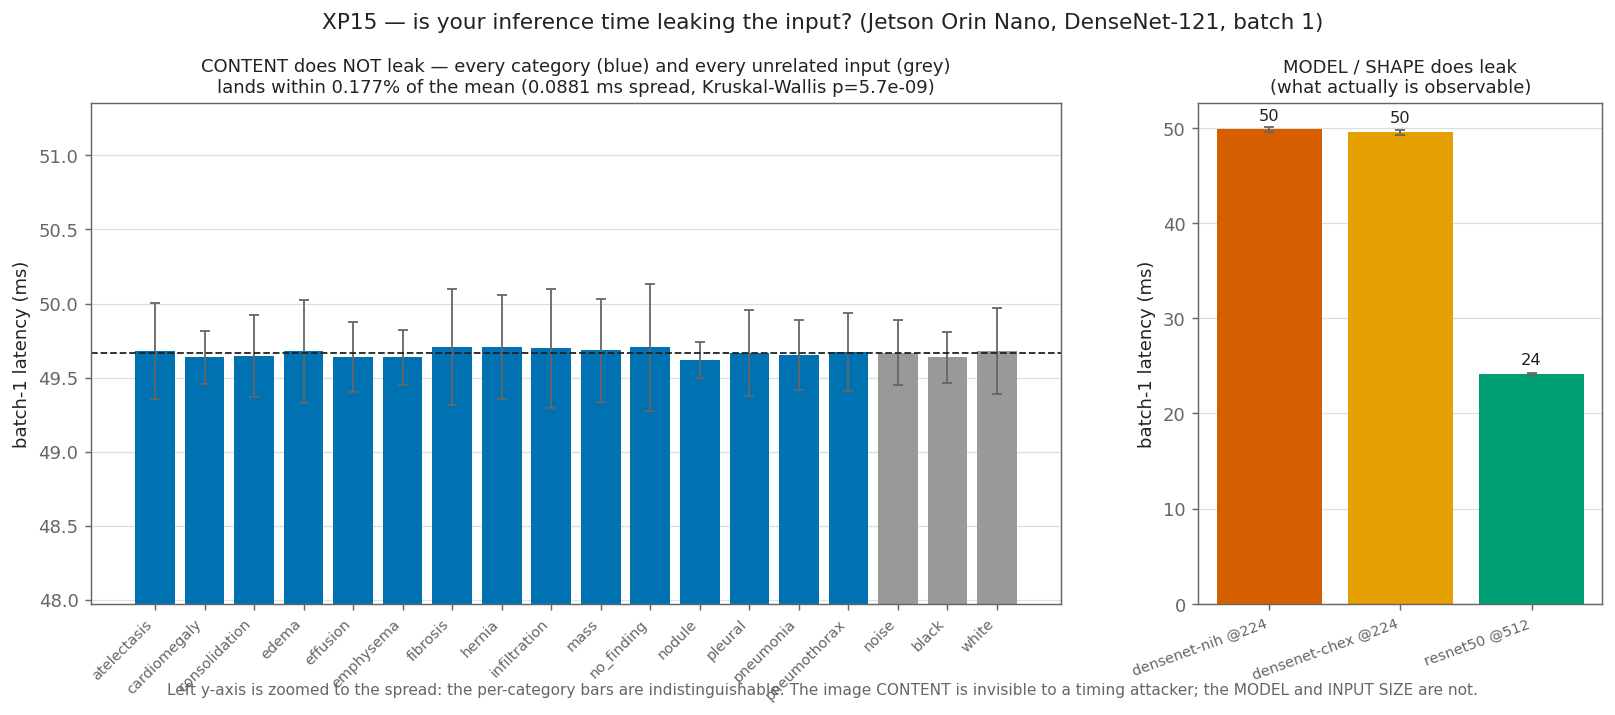
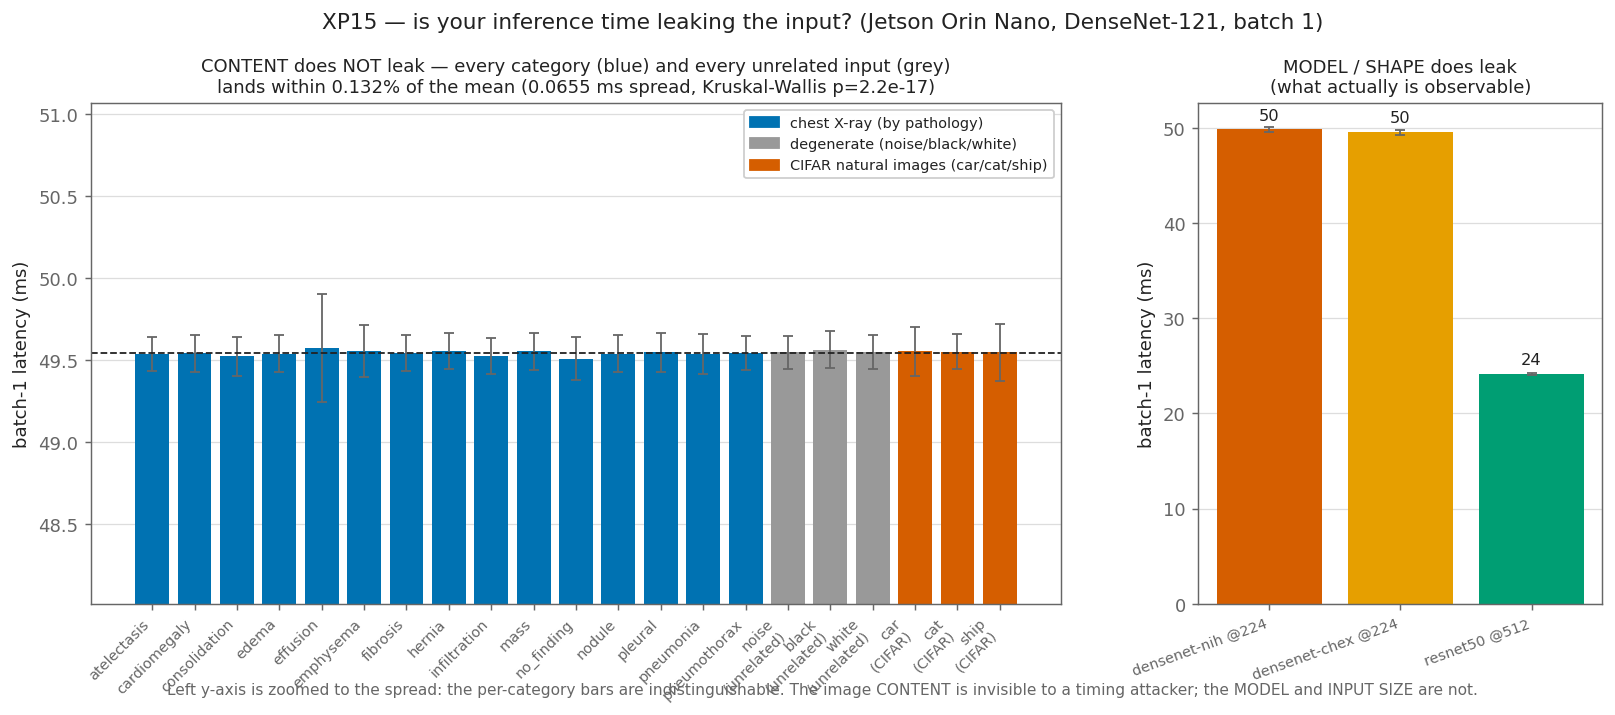
XP15: add real cross-domain images (CIFAR car/cat/ship) to the content test
Strengthen the 'content doesn't leak' finding with genuine natural photos from a
totally different domain, not just degenerate noise. Result: chest X-rays,
noise/black/white, and CIFAR cars/cats/ships all land at 49.55 ms — full spread
across all 21 groups is 0.066 ms (0.13%). A cardiomegaly X-ray and a photo of a
car differ by 11 microseconds. Figure now colours three groups (X-ray / degenerate
/ CIFAR); added --content-only for fast re-runs that reuse the model-shape control.

diff --git a/experiments/xp15_timing_sidechannel/timing_leak.py b/experiments/xp15_timing_sidechannel/timing_leak.py
@@ -116,11 +116,35 @@ def category_tensors(per_cat, size=224, seed=0):
         arr = np.stack([_preprocess(imgs[i], size) for i in idxs])   # (k,1,size,size)
         tensors[name] = torch.from_numpy(arr).to(DEVICE)
 
-    # "totally unrelated pictures": nothing like an X-ray.
+    # "totally unrelated pictures", part 1 — degenerate inputs (nothing like an X-ray).
     k = per_cat
     tensors["_noise"] = ((torch.rand(k, 1, size, size) * 2048) - 1024).to(DEVICE)
     tensors["_black"] = torch.full((k, 1, size, size), -1024.0).to(DEVICE)
     tensors["_white"] = torch.full((k, 1, size, size), 1024.0).to(DEVICE)
+
+    # part 2 — REAL natural images from a totally different domain (CIFAR-10: cars, cats,
+    # ships). Resized 32->224 with PIL (cv2 is ABI-broken on this board). If an attacker
+    # can't tell a car from a chest X-ray by timing, content really doesn't leak.
+    try:
+        from PIL import Image
+        from torchvision.datasets import CIFAR10
+        ds = CIFAR10(root=os.path.join(REPO, "results", "raw", "cifar"),
+                     train=False, download=True)
+        want = {"automobile": "~car", "cat": "~cat", "ship": "~ship"}
+        cls = ds.classes
+        buckets = {tag: [] for tag in want.values()}
+        for img, y in ds:                                # img is a PIL RGB 32x32
+            name = cls[y]
+            if name in want and len(buckets[want[name]]) < per_cat:
+                g = np.array(img.convert("L").resize((size, size), Image.BILINEAR))
+                buckets[want[name]].append(xrv_normalize(g.astype(np.float32))[None, ...])
+            if all(len(b) >= per_cat for b in buckets.values()):
+                break
+        for tag, arrs in buckets.items():
+            if arrs:
+                tensors[tag] = torch.from_numpy(np.stack(arrs).astype(np.float32)).to(DEVICE)
+    except Exception as e:                               # torchvision/CIFAR unavailable
+        print(f"   (CIFAR unrelated images skipped: {e})", flush=True)
     return tensors
 
 
@@ -141,8 +165,9 @@ def content_leak(model, tensors, repeats, seed=0):
         by_cat.setdefault(tag, []).extend(lat[i])
     per_cat = {c: summarize(v) for c, v in by_cat.items()}
 
-    # effect size + Kruskal-Wallis across the real pathology categories (exclude degenerate)
-    real = {c: by_cat[c] for c in by_cat if not c.startswith("_")}
+    # effect size + Kruskal-Wallis across the pathology categories only (exclude the
+    # degenerate "_" inputs and the CIFAR "~" natural images).
+    real = {c: by_cat[c] for c in by_cat if not (c.startswith("_") or c.startswith("~"))}
     means = [per_cat[c]["mean_ms"] for c in real]
     grand = float(np.mean([v for vs in real.values() for v in vs]))
     spread_ms = round(max(means) - min(means), 4)
@@ -231,6 +256,8 @@ def main() -> int:
     a.add_argument("--per-cat", type=int, default=80, help="images per category")
     a.add_argument("--repeats", type=int, default=8, help="timing repeats per image")
     a.add_argument("--no-energy", action="store_true")
+    a.add_argument("--content-only", action="store_true",
+                   help="re-measure only Part A; keep B/C from the existing JSON")
     args = a.parse_args()
     if not torch.cuda.is_available():
         print("error: needs CUDA (run on the Jetson)", file=sys.stderr); return 2
@@ -246,15 +273,20 @@ def main() -> int:
           f"({content['spread_pct_of_mean']}% of mean {content['grand_mean_ms']} ms), "
           f"Kruskal-Wallis p={content['kruskal_wallis']['p']:.3g}")
 
-    print("B. shape / model control...", flush=True)
-    control = shape_model_control(args.per_cat, args.repeats)
-    for k, v in control.items():
-        print(f"   {k:22} {v['mean_ms']:.3f} ms")
-
-    energy = None
-    if not args.no_energy:
-        print("C. energy per category (sustained)...", flush=True)
-        energy = energy_per_category(model, tensors)
+    prev = json.load(open(OUT)) if (args.content_only and os.path.isfile(OUT)) else {}
+    if args.content_only:
+        print("B/C reused from existing JSON (--content-only)")
+        control = prev.get("shape_model_control")
+        energy = prev.get("energy_per_category")
+    else:
+        print("B. shape / model control...", flush=True)
+        control = shape_model_control(args.per_cat, args.repeats)
+        for k, v in control.items():
+            print(f"   {k:22} {v['mean_ms']:.3f} ms")
+        energy = None
+        if not args.no_energy:
+            print("C. energy per category (sustained)...", flush=True)
+            energy = energy_per_category(model, tensors)
 
     out = {
         "experiment": "xp15_timing_sidechannel",

diff --git a/experiments/xp15_timing_sidechannel/make_figure.py b/experiments/xp15_timing_sidechannel/make_figure.py
@@ -36,17 +36,31 @@ def main():
     fig, (axL, axR) = plt.subplots(1, 2, figsize=(15, 5),
                                    gridspec_kw={"width_ratios": [2.4, 1]})
 
-    # LEFT — per-category latency, real pathologies then the "unrelated" degenerate inputs
+    # LEFT — per-category latency: pathologies (blue), degenerate inputs (grey),
+    # real natural images from CIFAR (orange). If content leaked, they'd separate.
     pc = cl["per_category"]
-    real = [c for c in pc if not c.startswith("_")]
+    path = sorted(c for c in pc if not c.startswith(("_", "~")))
     degen = [c for c in pc if c.startswith("_")]
-    order = sorted(real) + degen
-    labels = [c.replace("_", "") if c.startswith("_") else c for c in order]
+    cifar = [c for c in pc if c.startswith("~")]
+    order = path + degen + cifar
+
+    def _lab(c):
+        if c.startswith("_"):
+            return c[1:] + "\n(unrelated)"
+        if c.startswith("~"):
+            return c[1:] + "\n(CIFAR)"
+        return c
+    labels = [_lab(c) for c in order]
     means = [pc[c]["mean_ms"] for c in order]
     stds = [pc[c]["std_ms"] for c in order]
-    colors = ["#0072B2"] * len(real) + ["#999999"] * len(degen)
+    colors = (["#0072B2"] * len(path) + ["#999999"] * len(degen) + ["#D55E00"] * len(cifar))
     x = np.arange(len(order))
     axL.bar(x, means, yerr=stds, color=colors, capsize=3, error_kw={"ecolor": MUTED, "lw": 1})
+    from matplotlib.patches import Patch
+    axL.legend(handles=[Patch(color="#0072B2", label="chest X-ray (by pathology)"),
+                        Patch(color="#999999", label="degenerate (noise/black/white)"),
+                        Patch(color="#D55E00", label="CIFAR natural images (car/cat/ship)")],
+               loc="upper right", fontsize=8, framealpha=0.95)
     gm = cl["grand_mean_ms"]
     axL.axhline(gm, color=INK, ls="--", lw=1)
     axL.set_xticks(x); axL.set_xticklabels(labels, rotation=45, ha="right", fontsize=8)

diff --git a/experiments/xp15_timing_sidechannel/README.md b/experiments/xp15_timing_sidechannel/README.md
@@ -13,8 +13,10 @@ tell you anything about the X-ray?*
 ## What we measured (one image at a time, batch 1 — the real single-query case)
 
 - **A · Content.** Per-pathology-category latency, mean ± std, over the labelled ChestMNIST
-  test set — plus **"totally unrelated pictures"** (pure noise, all-black, all-white) to
-  probe whether wildly non-X-ray content changes the timing.
+  test set — plus **"totally unrelated pictures"** from two angles: degenerate inputs (pure
+  noise, all-black, all-white) *and* **real natural photos from a completely different
+  domain** (CIFAR-10 cars, cats, ships). If a car classifies in the same time as a chest
+  X-ray, content really doesn't leak.
 - **B · Model / shape** (positive control). The same measurement across DenseNet@224 vs
   ResNet@512 and two different DenseNet weight sets — to show the channel *is* real
   somewhere.
@@ -33,11 +35,12 @@ not just a p-value: with tens of thousands of samples any trivial difference bec
 
 ![timing side-channel](../../results/figures/timing_sidechannel.png)
 
-**Content — a dead channel.** All 15 pathology categories *and* the three unrelated inputs
-(pure noise, all-black, all-white) land at **49.67 ms**, within a total spread of
-**0.088 ms — 0.18 % of the mean**. Energy barely moves either: **~404 mJ per inference**
-across categories, a ~1 % spread. A "cardiomegaly" image, an "effusion" image, and a frame
-of pure static all cost the same time and the same joules.
+**Content — a dead channel.** All 15 pathology categories, the three degenerate inputs
+(noise / black / white), **and three classes of real CIFAR photos (car, cat, ship)** land
+at **49.55 ms** — a total spread across all 21 groups of **0.066 ms, 0.13 % of the mean**.
+A chest X-ray of cardiomegaly (49.54 ms) and a **photo of a car** (49.55 ms) differ by
+**11 microseconds**. Energy barely moves either: **~404 mJ per inference**, a ~1 % spread.
+Content — medical or not — is simply invisible to the clock.
 
 > The Kruskal-Wallis test reports p ≈ 6 × 10⁻⁹ — technically "significant". That is the
 > **p-value trap**: with 18,000 samples even a 0.18 % difference is *detectable*, but an

diff --git a/README.md b/README.md
@@ -65,7 +65,7 @@ Each folder is one self-contained experiment with its own README, code, and resu
 | [XP12](experiments/xp12_energy_governor/) | Energy governor | adaptive power scaling; −3.4 % energy vs MAXN — but power mode is a weak lever |
 | [XP13](experiments/xp13_multimodal_report/) | On-device multimodal | X-ray → local LLM report; vision + language on one box, offline, ~2 s |
 | [XP14](experiments/xp14_calibration/) | Calibration | probabilities are over-confident (ECE 0.28); caught a double-sigmoid bug AUROC missed |
-| [XP15](experiments/xp15_timing_sidechannel/) | Timing side-channel | inference time leaks the **model/resolution** (2×) but **not the image content** (0.18%) — constant-time in content by construction |
+| [XP15](experiments/xp15_timing_sidechannel/) | Timing side-channel | inference time leaks the **model/resolution** (2×) but **not the image content** — a chest X-ray and a CIFAR car time within 0.13% — constant-time in content by construction |
 | [demos](demos/) | Live demos | PyTorch (75 img/s) · TensorRT (398 img/s) · browser replay |
 
 ## The clinic story
